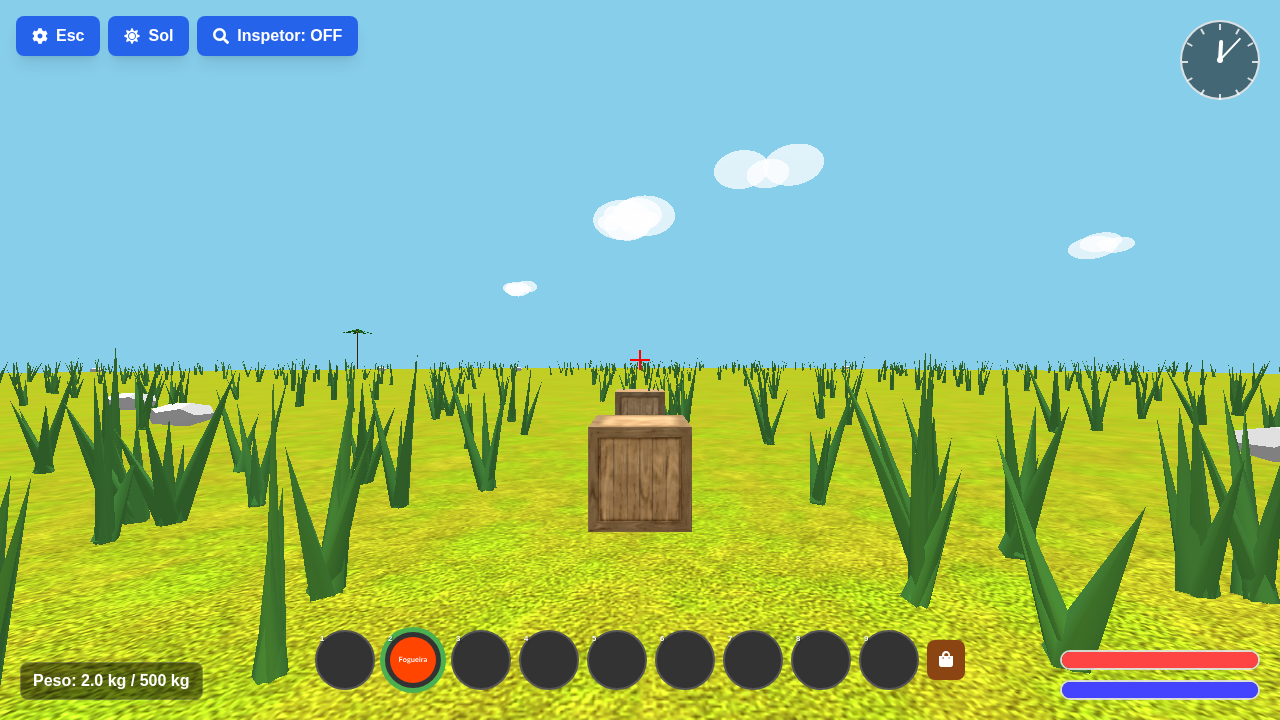
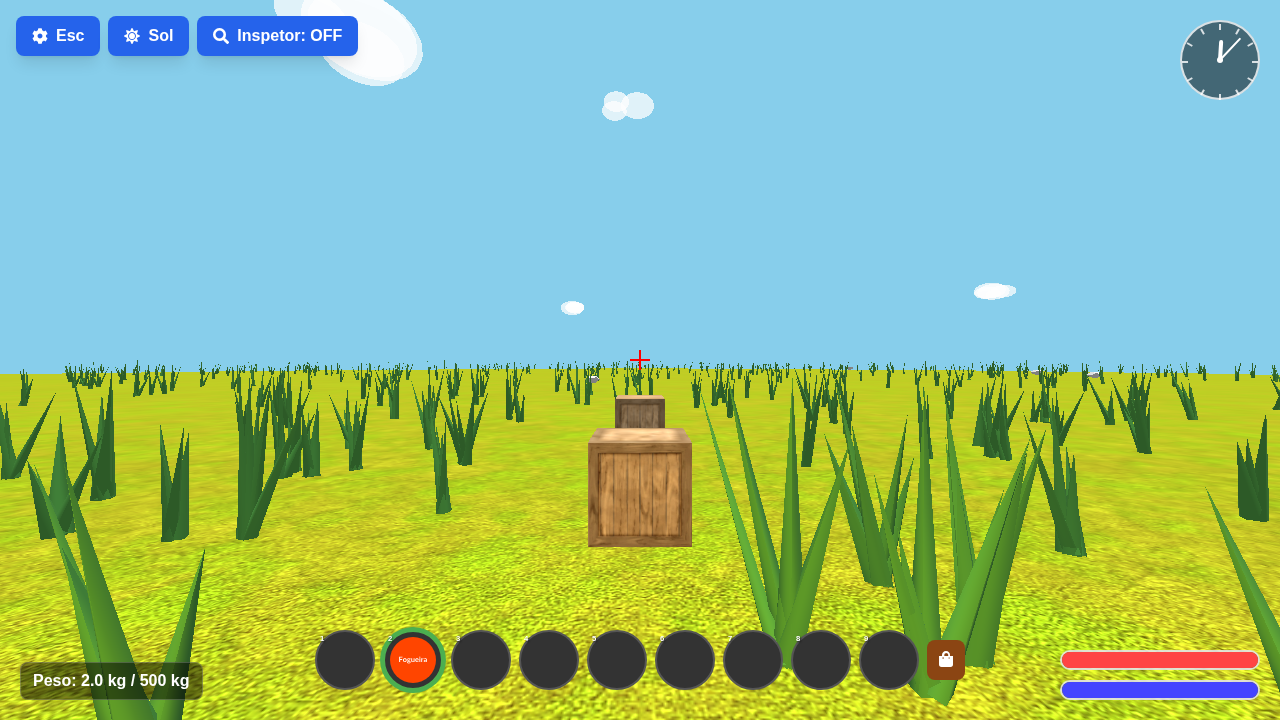
Merge pull request #776 from Armandodecampos/feature/improved-torch-design-1419955708467929186
Improve Torch Design

Pull request: Improve Torch Design
Improved the visual design of the torch to be more realistic and detailed. The new design replaces the simple cylinder with a model featuring a tapered stick, a cloth head held by straps, and a dual-tone flame (orange outer and yellow inner). The implementation centralizes the creation logic and updates the animation system to handle the more complex geometry safely. Verified with screenshots and existing automated tests.

---
*PR created automatically by Jules for task [1419955708467929186](https://jules.google.com/task/1419955708467929186) started by @user*

diff --git a/index.htm b/index.htm
@@ -3867,6 +3867,80 @@
             return mesh;
         }
 
+        function createTorchModel(isHeld = false) {
+            const torchGroup = new THREE.Group();
+            const stickHeight = isHeld ? 0.5 : 0.8;
+            const stickRadius = isHeld ? 0.02 : 0.025;
+
+            // 1. Stick (tapered and slightly rough)
+            const stickGeom = new THREE.CylinderGeometry(stickRadius * 0.8, stickRadius, stickHeight, 8);
+            const stickMat = new THREE.MeshStandardMaterial({ color: 0x4d3319 }); // Darker brown
+            const stick = new THREE.Mesh(stickGeom, stickMat);
+            // Position stick so its base is at 0 if we want, but for consistency with existing code:
+            // Placed torch had stick.position.y = 0.4 (half of 0.8).
+            stick.position.y = stickHeight / 2;
+            torchGroup.add(stick);
+
+            // 2. Cloth Bundle (Beige/Tan) - The "head" of the torch
+            const bundleRadius = stickRadius * 3;
+            const bundleHeight = stickHeight * 0.2;
+            const bundleGeom = new THREE.CylinderGeometry(bundleRadius, bundleRadius * 0.8, bundleHeight, 8);
+            const bundleMat = new THREE.MeshStandardMaterial({ color: 0xd2b48c }); // Tan
+            const bundle = new THREE.Mesh(bundleGeom, bundleMat);
+            bundle.position.y = stickHeight - bundleHeight / 4;
+            torchGroup.add(bundle);
+
+            // 3. Straps (Dark Brown) - Wrapping the bundle
+            const strapMat = new THREE.MeshStandardMaterial({ color: 0x261a0d });
+            for (let i = 0; i < 3; i++) {
+                const strap = new THREE.Mesh(new THREE.TorusGeometry(bundleRadius + 0.002, 0.004, 8, 16), strapMat);
+                strap.position.y = bundle.position.y - bundleHeight / 2 + (i + 0.5) * (bundleHeight / 3);
+                strap.rotation.x = Math.PI / 2 + (Math.random() - 0.5) * 0.3;
+                torchGroup.add(strap);
+            }
+
+            // 4. Fire Group
+            const fireGroup = new THREE.Group();
+            // Orange outer fire
+            const orangeFireMat = new THREE.MeshStandardMaterial({
+                color: 0xff4500,
+                emissive: 0xff4500,
+                emissiveIntensity: 1.5,
+                transparent: true,
+                opacity: 0.8
+            });
+            // Yellow inner fire
+            const yellowFireMat = new THREE.MeshStandardMaterial({
+                color: 0xffff00,
+                emissive: 0xffff00,
+                emissiveIntensity: 2.0,
+                transparent: true,
+                opacity: 0.9
+            });
+
+            // Outer flames
+            for (let i = 0; i < 3; i++) {
+                const fire = new THREE.Mesh(new THREE.ConeGeometry(bundleRadius * 1.2, bundleHeight * 1.5, 8), orangeFireMat);
+                fire.position.set((Math.random() - 0.5) * 0.05, bundleHeight * 0.4, (Math.random() - 0.5) * 0.05);
+                fire.rotation.y = Math.random() * Math.PI;
+                fireGroup.add(fire);
+            }
+            // Inner flame
+            const innerFire = new THREE.Mesh(new THREE.ConeGeometry(bundleRadius * 0.7, bundleHeight * 1.2, 8), yellowFireMat);
+            innerFire.position.y = bundleHeight * 0.4;
+            fireGroup.add(innerFire);
+
+            fireGroup.position.y = stickHeight + bundleHeight / 4;
+            torchGroup.add(fireGroup);
+
+            // 5. Light
+            const light = new THREE.PointLight(0xffaa00, isHeld ? 1.2 : 1.5, isHeld ? 5 : 6);
+            light.position.set(0, bundleHeight * 0.5, 0);
+            fireGroup.add(light);
+
+            return { group: torchGroup, fireGroup, light, stick };
+        }
+
         // Função para criar um novo bloco físico e visual (cob ou piso)
         function createPlaceableBlock(position, quaternion, type, initialStage = null) {
             let blockShape, initialMass;
@@ -4026,34 +4100,11 @@
                 // Origin at base: offset the shape up by half height
                 blockBody.addShape(blockShape, new CANNON.Vec3(0, 0.4, 0));
 
-                const torchGroup = new THREE.Group();
-                const logMat = new THREE.MeshStandardMaterial({ color: 0x8B4513 });
+                const torchModel = createTorchModel(false);
+                mesh = torchModel.group;
+                const fireGroup = torchModel.fireGroup;
+                const light = torchModel.light;
 
-                const stick = new THREE.Mesh(new THREE.CylinderGeometry(0.025, 0.025, 0.8, 8), logMat);
-                stick.position.y = 0.4;
-                torchGroup.add(stick);
-
-                const fireGroup = new THREE.Group();
-                const fireMat = new THREE.MeshStandardMaterial({
-                    color: 0xff4500,
-                    transparent: true,
-                    opacity: 0.8,
-                    emissive: 0xff4500,
-                    emissiveIntensity: 1.5
-                });
-                for (let i = 0; i < 3; i++) {
-                    const fire = new THREE.Mesh(new THREE.ConeGeometry(0.08, 0.25, 8), fireMat);
-                    fire.position.set((Math.random() - 0.5) * 0.1, 0.9, (Math.random() - 0.5) * 0.1); // Gap acima do topo (0.8)
-                    fire.rotation.y = Math.random() * Math.PI;
-                    fireGroup.add(fire);
-                }
-                torchGroup.add(fireGroup);
-
-                const light = new THREE.PointLight(0xffaa00, 1.5, 6);
-                light.position.set(0, 1.0, 0); // Gap acima do fogo
-                torchGroup.add(light);
-
-                mesh = torchGroup;
                 initialMass = 5;
                 durability = 0.8;
 
@@ -4505,33 +4556,13 @@
             camera.rotation.order = 'YXZ'; // Define a ordem de rotação para guinada (Y), inclinação (X), rolagem (Z)
 
             // Inicializa a Tocha Segurada
-            heldTorchGroup = new THREE.Group();
-            const torchStickGeom = new THREE.CylinderGeometry(0.02, 0.02, 0.5, 8);
-            const torchStickMat = new THREE.MeshStandardMaterial({ color: 0x8B4513 });
-            const torchStick = new THREE.Mesh(torchStickGeom, torchStickMat);
-            torchStick.rotation.x = -Math.PI / 4; // Inclina a tocha para frente
-            heldTorchGroup.add(torchStick);
+            const heldTorchModel = createTorchModel(true);
+            heldTorchGroup = heldTorchModel.group;
+            heldFireGroup = heldTorchModel.fireGroup;
+            heldTorchLight = heldTorchModel.light;
 
-            heldFireGroup = new THREE.Group();
-            const heldFireMat = new THREE.MeshStandardMaterial({
-                color: 0xff4500,
-                transparent: true,
-                opacity: 0.8,
-                emissive: 0xff4500,
-                emissiveIntensity: 1.5
-            });
-            for (let i = 0; i < 3; i++) {
-                const fire = new THREE.Mesh(new THREE.ConeGeometry(0.05, 0.15, 8), heldFireMat);
-                fire.position.set((Math.random() - 0.5) * 0.05, 0, (Math.random() - 0.5) * 0.05);
-                fire.rotation.y = Math.random() * Math.PI;
-                heldFireGroup.add(fire);
-            }
-            heldFireGroup.position.set(0, 0.22, -0.22); // Posiciona com um gap acima do topo do stick
-            heldTorchGroup.add(heldFireGroup);
-
-            heldTorchLight = new THREE.PointLight(0xffaa00, 1.2, 5);
-            heldTorchLight.position.set(0, 0.28, -0.28);
-            heldTorchGroup.add(heldTorchLight);
+            // Inclina a tocha para frente
+            heldTorchModel.group.rotation.x = -Math.PI / 4;
 
             heldTorchGroup.position.set(0.3, -0.25, -0.4); // Posiciona no canto inferior direito da tela
             heldTorchGroup.visible = false;
@@ -7104,9 +7135,11 @@
                 activeCampfires.forEach(cf => {
                     if (cf.userData.fireGroup) {
                         cf.userData.fireGroup.children.forEach((fire, i) => {
-                            fire.scale.y = 0.8 + Math.sin(now * 0.003 + i) * 0.3;
-                            fire.scale.x = fire.scale.z = 0.9 + Math.cos(now * 0.004 + i) * 0.1;
-                            fire.rotation.y += 0.02 * delta;
+                            if (fire instanceof THREE.Mesh) {
+                                fire.scale.y = 0.8 + Math.sin(now * 0.003 + i) * 0.3;
+                                fire.scale.x = fire.scale.z = 0.9 + Math.cos(now * 0.004 + i) * 0.1;
+                                fire.rotation.y += 0.02 * delta;
+                            }
                         });
                     }
                     if (cf.userData.fireLight) {
@@ -8065,8 +8098,14 @@
                 // Animação das chamas da tocha segurada
                 heldFireGroup.children.forEach((fire, i) => {
                     const s = 1.0 + Math.sin(now * 0.01 + i) * 0.2;
-                    fire.scale.set(s, s, s);
-                    fire.rotation.y += 0.05;
+                    // Check if it's the inner yellow flame (it's the last child in createTorchModel)
+                    const isInner = i === heldFireGroup.children.length - 2; // -1 is Light, -2 is inner fire
+                    if (isInner) {
+                        fire.scale.set(s * 0.8, s * 1.1, s * 0.8);
+                    } else if (fire instanceof THREE.Mesh) {
+                        fire.scale.set(s, s, s);
+                    }
+                    if (fire instanceof THREE.Mesh) fire.rotation.y += 0.05;
                 });
             } else {
                 heldTorchGroup.visible = false;

diff --git a/verify_torch.js b/verify_torch.js
@@ -1,0 +1,32 @@
+const { chromium } = require('playwright');
+
+(async () => {
+  const browser = await chromium.launch();
+  const page = await browser.newPage();
+  await page.goto('http://localhost:8080/index.htm');
+  await page.click('#startButton');
+
+  // Wait for world ready
+  await page.waitForFunction(() => window.isWorldReady === true);
+
+  // Equip torch
+  await page.evaluate(() => {
+    // Put torch in slot 1 (index 1)
+    window.beltItems[1] = { name: 'tocha', quantity: 1 };
+    window.selectedSlotIndex = 1;
+  });
+
+  await page.waitForTimeout(2000);
+  await page.screenshot({ path: 'screenshots/torch_held_visual.png' });
+
+  // Place torch
+  await page.evaluate(() => {
+    const pos = { x: 2, y: 1, z: -2 };
+    window.createPlaceableBlock(pos, null, 'tocha');
+  });
+
+  await page.waitForTimeout(2000);
+  await page.screenshot({ path: 'screenshots/torch_placed_visual.png' });
+
+  await browser.close();
+})();